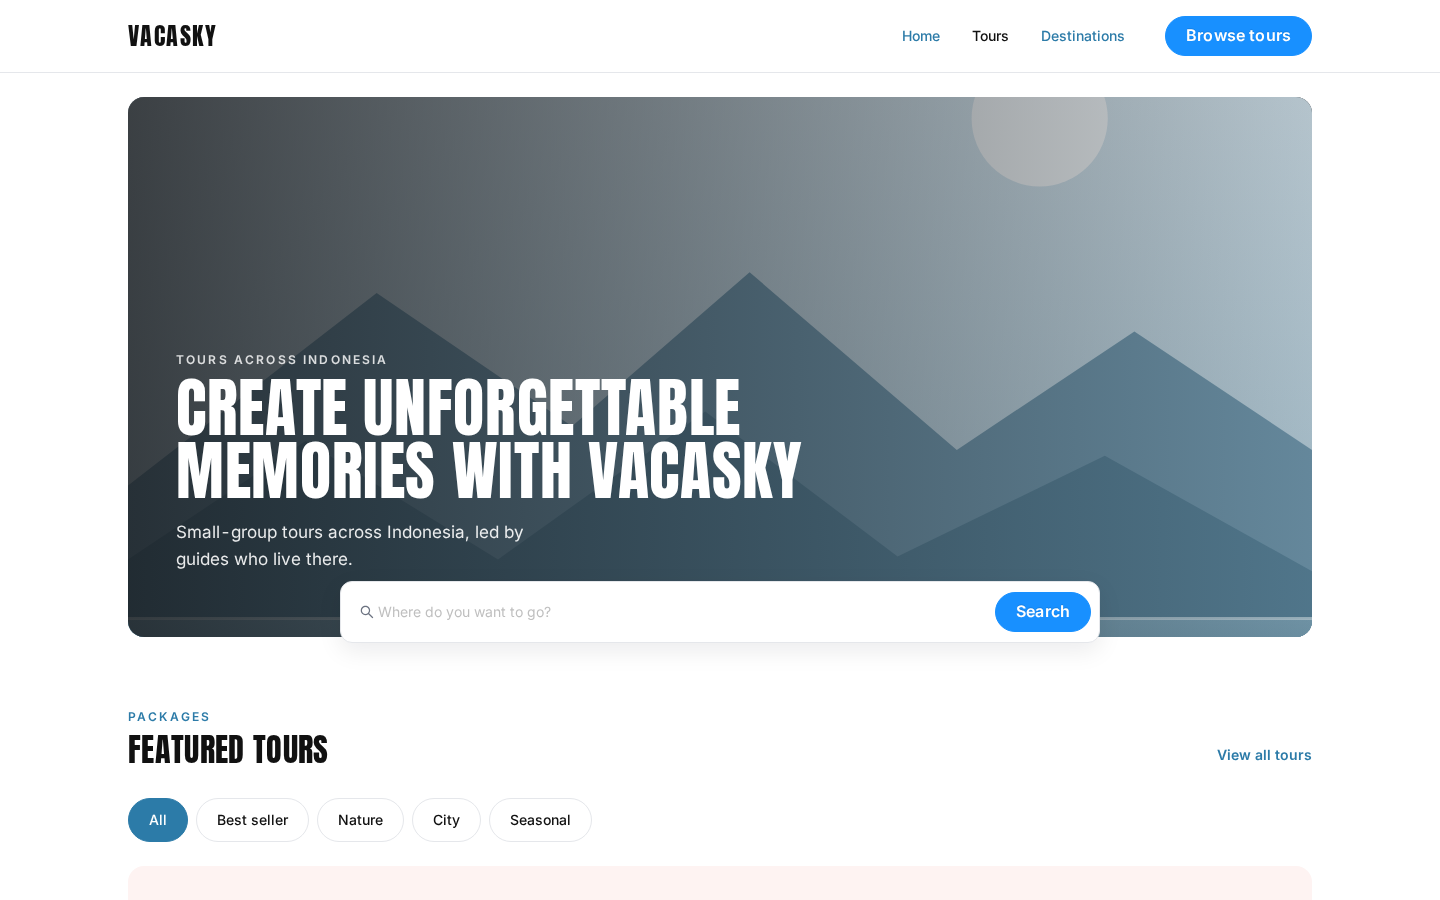
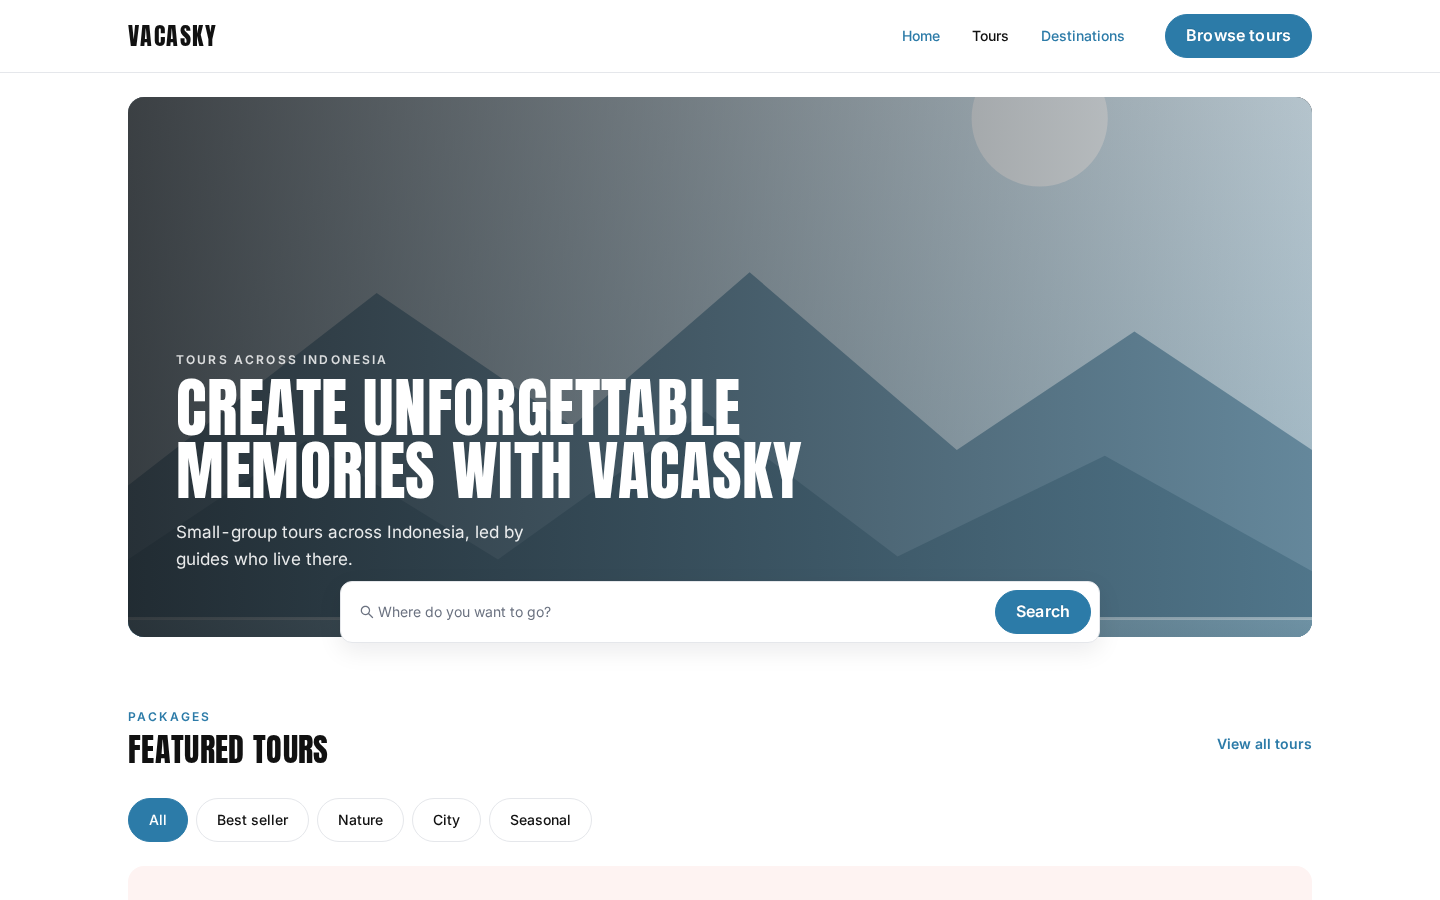
fix(vacasky-svc/FEAT-001): AA contrast, 44px controls and heading colour
Primary buttons were still Ant Design blue, headings inside dark cards
kept the reset colour, placeholder and surface text fell below 4.5:1, and
large buttons sat at 40px. Also keeps the hero search off the hero copy on
phones and stops category tags stretching across the card.

diff --git a/src/styles/app.css b/src/styles/app.css
@@ -16,6 +16,9 @@
 }
 
 .wordmark {
+  display: inline-flex;
+  align-items: center;
+  min-height: 44px;
   font-family: var(--font-display);
   font-size: 24px;
   line-height: 1;
@@ -132,11 +135,16 @@
 .site-footer__list {
   display: flex;
   flex-direction: column;
-  gap: var(--space-2);
   margin: 0;
   padding: 0;
   list-style: none;
   font-size: 14px;
+}
+
+.site-footer__list a {
+  display: inline-flex;
+  align-items: center;
+  min-height: 44px;
 }
 
 .site-footer__bottom {
@@ -655,7 +663,7 @@
 }
 
 .range__sep {
-  color: var(--color-text-muted);
+  color: var(--color-text-muted-on-surface);
   font-size: 13px;
 }
 
@@ -1136,13 +1144,26 @@
   text-transform: uppercase;
 }
 
-.ant-btn-primary:not(:disabled):hover,
-.ant-btn-primary:not(:disabled):focus {
-  background: var(--color-primary-dark);
+.ant-btn.ant-btn-primary {
+  background: var(--color-primary);
+  border-color: var(--color-primary);
+  box-shadow: none;
 }
 
-.ant-btn-primary {
-  box-shadow: none;
+.ant-btn.ant-btn-primary:not(:disabled):hover,
+.ant-btn.ant-btn-primary:not(:disabled):focus {
+  background: var(--color-primary-dark);
+  border-color: var(--color-primary-dark);
+}
+
+/* Every control reaches the 44px target from the spec, including large buttons
+   that Ant Design fixes at 40px. */
+.ant-btn {
+  min-height: 44px;
+}
+
+.ant-btn.ant-btn-icon-only {
+  min-width: 44px;
 }
 
 .ant-btn-round.ant-btn-lg {
@@ -1234,6 +1255,13 @@ a.ant-btn {
 
 .ant-select-single .ant-select-selection-placeholder {
   line-height: 30px;
+  color: var(--color-text-muted);
+}
+
+.ant-input::placeholder,
+.ant-input-number-input::placeholder {
+  color: var(--color-text-muted);
+  opacity: 1;
 }
 
 .ant-input-number:hover,

diff --git a/src/styles/base.css b/src/styles/base.css
@@ -133,6 +133,13 @@ select {
   background: var(--color-surface);
 }
 
+/* #2c7ba8 is only 4.2:1 on the surface colour, so text on the surface band
+   uses the darker primary. */
+.section--surface .eyebrow,
+.section--surface .section__link {
+  color: var(--color-primary-dark);
+}
+
 .section__head {
   display: flex;
   flex-wrap: wrap;
@@ -147,6 +154,9 @@ select {
 }
 
 .section__link {
+  display: inline-flex;
+  align-items: center;
+  min-height: 44px;
   font-size: 14px;
   font-weight: 600;
 }

diff --git a/src/features/tours/TourDetailPage.jsx b/src/features/tours/TourDetailPage.jsx
@@ -35,7 +35,7 @@ function Gallery({ images, resetKey }) {
               aria-label={`Show photo ${index + 1} of ${images.length}`}
               onClick={() => setActive(index)}
             >
-              <MediaImage image={{ ...image, alt: '' }} />
+              <MediaImage image={image} />
             </button>
           ))}
         </div>
